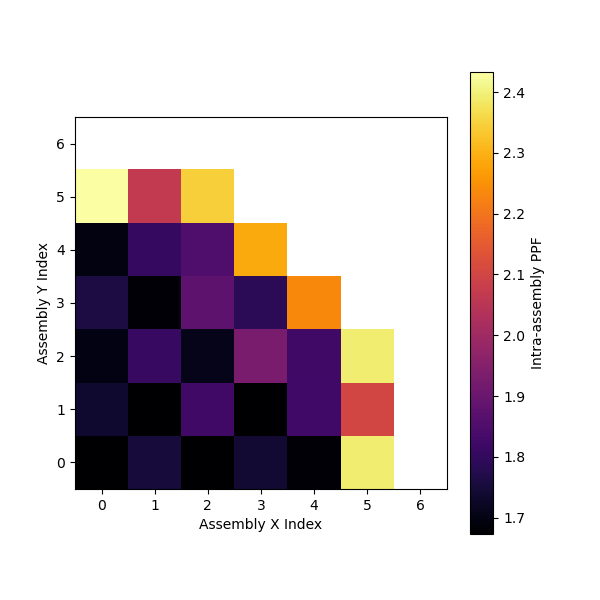
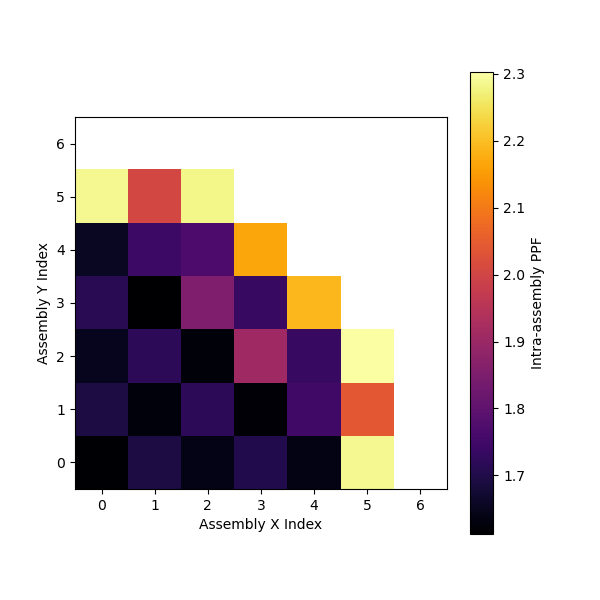
Report 1

diff --git a/SDreport1/PPF.py b/SDreport1/PPF.py
@@ -225,7 +225,7 @@ def ppf(batch,z):
     return Fq_intra2r, Fq_intraA, Fq_inter, assembly_avgnowc, fuel_mask
 
 
-Fq_intra, Fq_intraA, Fq_inter, assembly_avg , fuel_mask = ppf(2002,20)
+Fq_intra, Fq_intraA, Fq_inter, assembly_avg , fuel_mask = ppf(4000,20)
 
 np.set_printoptions(linewidth=200)
 Fq_intra = Fq_intra.reshape((7,7))
